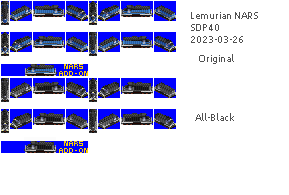
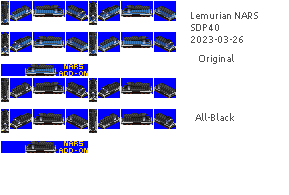
sdp40: redraw All-Black sprite

diff --git a/CHANGELOG.md b/CHANGELOG.md
@@ -1,5 +1,8 @@
 [< Back](./README.md)
 
+### 0.5.0
+* Redrew All-Black livery for SDP40
+
 ### 0.4.0 (2023-04-20)
 * Added All-Black and Fictional 1 livery to U28C
 * Added Generic 1 livery for the Great Northern W1
